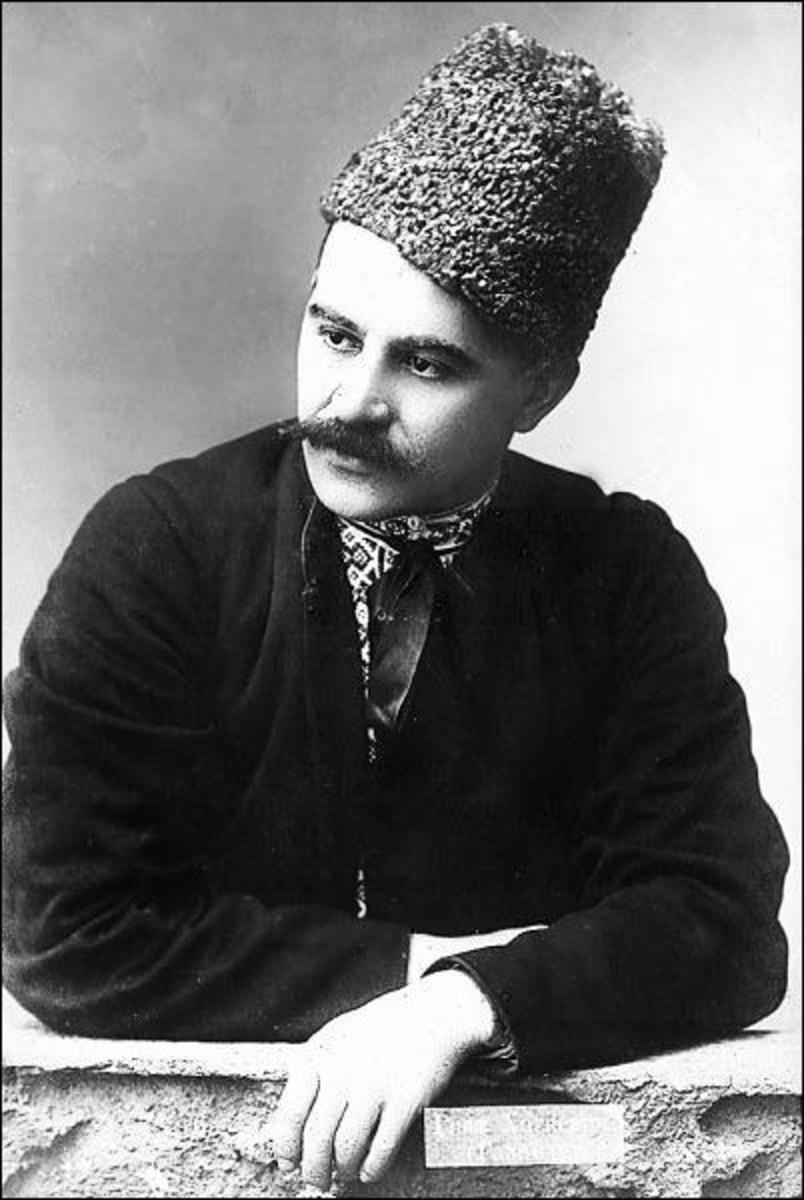
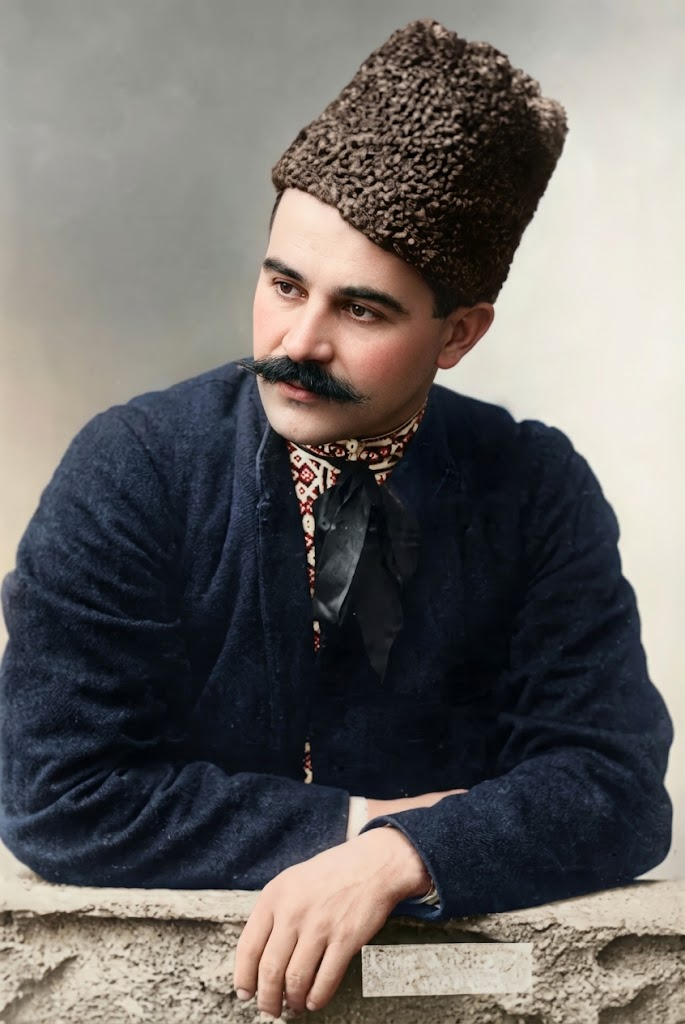
Approve Yefremov and Khotkevych with AI-colorized portraits

diff --git a/src/content/people/uk/serhii-yefremov.md b/src/content/people/uk/serhii-yefremov.md
@@ -29,6 +29,7 @@ image:
   author: "Невідомий автор"
   license: "Public domain"
   source_url: "https://commons.wikimedia.org/wiki/File:Єфремов_С.jpg"
+  ai_edit: colorized
 sources:
   - title: "Енциклопедія історії України - Єфремов Сергій Олександрович (автор - О. Д. Бойко)"
     url: "https://resource.history.org.ua/cgi-bin/eiu/history.exe?I21DBN=EIU&P21DBN=EIU&S21STN=1&S21REF=10&S21FMT=eiu_all&C21COM=S&S21CNR=20&S21P01=0&S21P02=0&S21P03=TRN%3D&S21COLORTERMS=0&S21STR=Efremov_S_O"
@@ -38,7 +39,8 @@ sources:
     url: "https://www.radiosvoboda.org/a/24510782.html"
 related: [taras-shevchenko, ivan-franko, mykhailo-kotsiubynskyi, hnat-khotkevych, andrii-nikovskyi, liudmyla-starytska-cherniakhivska]
 collections: [executed-renaissance]
-status: draft
+status: approved
+published: 2026-10-18T02:47:16Z
 ---
 
 ## Один автор, багато імен

diff --git a/src/content/people/uk/hnat-khotkevych.md b/src/content/people/uk/hnat-khotkevych.md
@@ -21,6 +21,7 @@ image:
   author: "Невідомий автор"
   license: "Public domain"
   source_url: "https://commons.wikimedia.org/wiki/File:Hnat_Khotkevych.jpg"
+  ai_edit: colorized
 key_accomplishments:
   - "Повість «Камінна душа» (1911) - про гуцулів, найбільше його досягнення в прозі"
   - "Гуцульський театр у Красноїллі, зібраний із селян"
@@ -36,7 +37,8 @@ sources:
     url: "https://texty.org.ua/fragments/104706/banduryst-teroryst-dokumenty-zi-spravy-represovanoho-muzykanta-gnata-hotkevycha-dostupni-onlajn/"
 related: [mykola-lysenko, hryhorii-skovoroda, taras-shevchenko]
 collections: [executed-renaissance]
-status: draft
+status: approved
+published: 2026-10-18T02:50:34Z
 ---
 
 ## Інженер із бандурою
